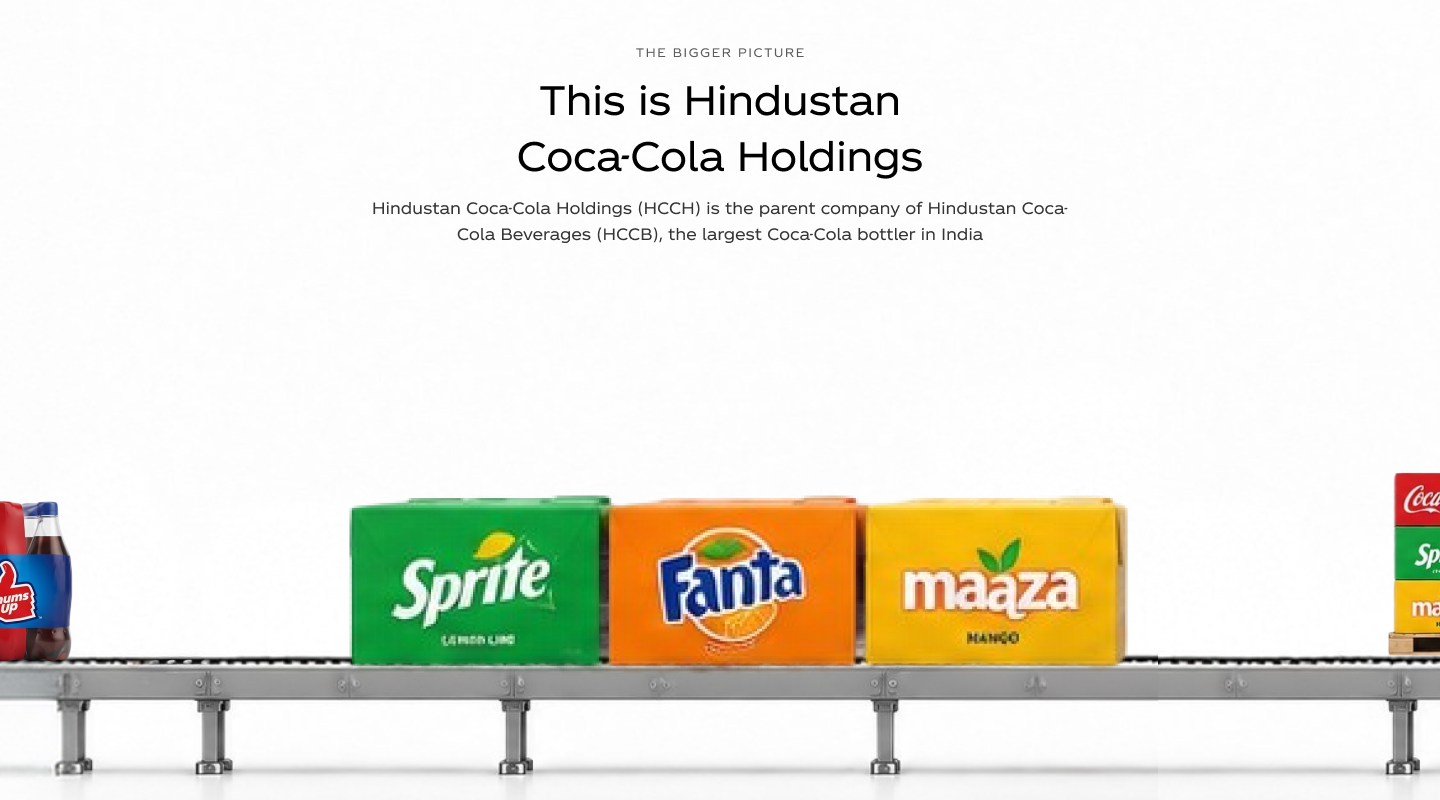
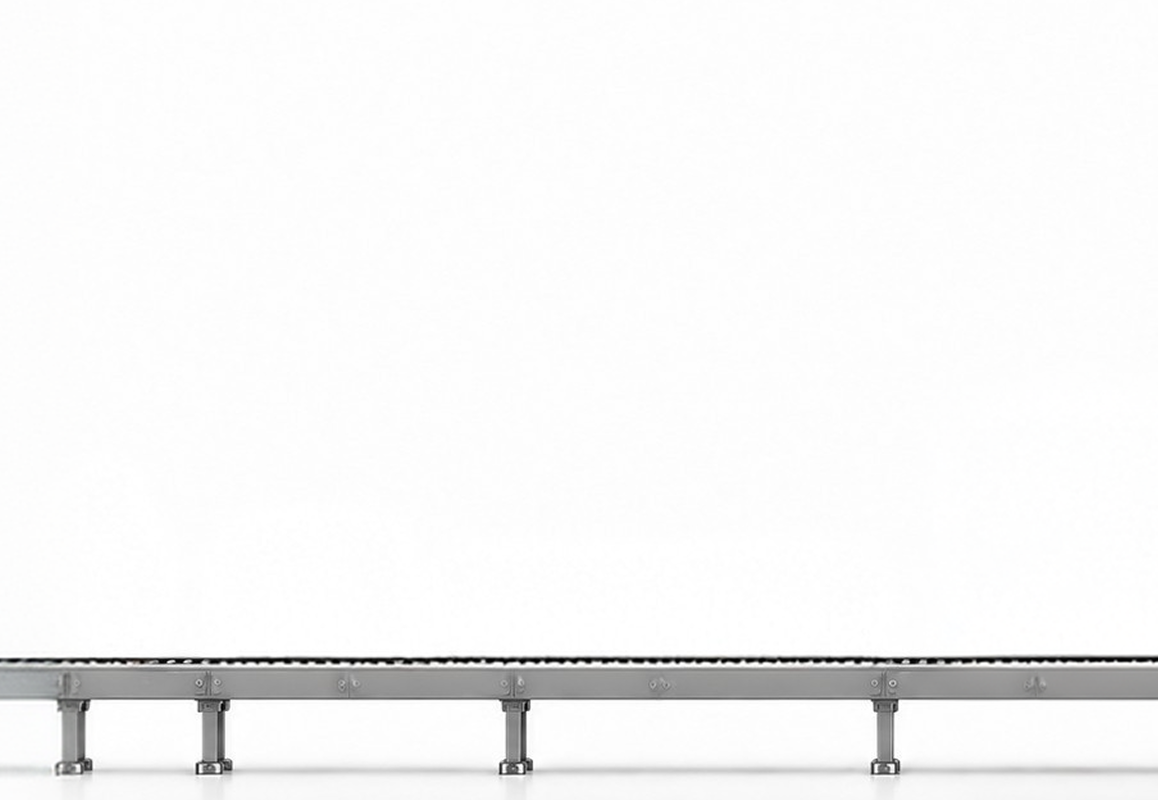
BiggerPicture animation

Changed region(s): [[0.0, 0.5938, 1.0, 0.9688], [0.342, 0.0625, 0.6528, 0.2188], [0.2487, 0.25, 0.7461, 0.3125]]

diff --git a/src/app/components/TheBiggerPicture.jsx b/src/app/components/TheBiggerPicture.jsx
@@ -1,27 +1,171 @@
+'use client';
+
+import { useEffect, useRef } from 'react';
 import Image from 'next/image';
+import gsap from 'gsap';
+import { ScrollTrigger } from 'gsap/ScrollTrigger';
 import SectionHeading from './ui-reuseable/SectionHeading';
+import Button from './ui-reuseable/Button';
+
+if (typeof window !== 'undefined') {
+  gsap.registerPlugin(ScrollTrigger);
+}
+
+const assets = [
+  {
+    id: 'item-1',
+    src: '/object-1.png',
+   
+  },
+  {
+    id: 'item-2',
+    src: '/Object.png',
+  },
+  {
+    id: 'item-3',
+    src: '/object-3.png',
+  },
+];
 
 export default function TheBiggerPicture() {
-  return (
-    <section className="w-full bg-white pt-10 sm:pt-16 lg:pt-24 pb-0 min-h-[100dvh] flex flex-col justify-between overflow-hidden select-none">
-      <div className="w-full max-w-[1320px] mx-auto px-5 sm:px-8 lg:px-6 min-[1368px]:px-[60px]">
-        <SectionHeading
-          eyebrow="The Bigger Picture"
-          title={<>This is Hindustan <br /> Coca-Cola Holdings</>}
-          desc="We are part of the story behind some of India's most loved beverages and the moments they are enjoyed in. Together with our network of people and partners, we help make those moments a little more refreshing"
-        />
-      </div>
+  const triggerRef = useRef(null);
+  const pinRef = useRef(null);
+  const trackRef = useRef(null);
+  const item3Ref = useRef(null);
+  const truckRef = useRef(null);
 
-      <div className="relative w-full mt-auto overflow-hidden flex items-end justify-center">
-        <div className="relative w-full h-[120px] sm:h-[180px] md:h-[240px] lg:h-[320px] xl:h-[380px]">
-          <Image
-            src="/conveyor-belt.png"
-            alt="Hindustan Coca-Cola Production Conveyor Belt"
-            fill
-            sizes="100vw"
-            priority
-            className="object-cover object-bottom"
+  useEffect(() => {
+    if (!triggerRef.current || !pinRef.current) return;
+
+    const ctx = gsap.context(() => {
+      const tl = gsap.timeline({
+        scrollTrigger: {
+          trigger: triggerRef.current,
+          pin: pinRef.current,
+          start: 'top top',
+          end: '+=200%',
+          scrub: 1,
+          anticipatePin: 1,
+          pinSpacing: true,
+        },
+      });
+      tl.to(
+        trackRef.current,
+        {
+          x: '-480px',
+          ease: 'none',
+          duration: 2,
+        },
+        0
+      );
+      tl.fromTo(
+        truckRef.current,
+        { x: '100%' },
+        { x: '0%', ease: 'power1.out', duration: 1.4 },
+        0.3
+      );
+      tl.to(
+        item3Ref.current,
+        {
+          x: 260,
+          scale: 0.85,
+          opacity: 0,
+          duration: 1.1,
+          ease: 'power1.in',
+        },
+        1.3
+      );
+    }, triggerRef);
+
+    return () => {
+      ctx.revert();
+      ScrollTrigger.getAll().forEach((t) => t.kill());
+    };
+  }, []);
+
+  return (
+    <section ref={triggerRef} className="relative w-full bg-white select-none">
+      <div
+        ref={pinRef}
+        className="w-full h-screen flex flex-col justify-between overflow-hidden" >
+        <div className="w-full max-w-[1320px] mx-auto pt-10 sm:pt-14 px-5 sm:px-8 lg:px-6 text-center z-20">
+          <SectionHeading
+            align="center"
+            eyebrow="THE BIGGER PICTURE"
+            title={
+              <>
+                This is Hindustan <br /> Coca-Cola Holdings
+              </>
+            }
+            desc="Hindustan Coca-Cola Holdings (HCCH) is the parent company of Hindustan Coca-Cola Beverages (HCCB), the largest Coca-Cola bottler in India"
           />
+
+          <div className="mt-5 flex justify-center">
+            <Button href="#discover" variant="black">
+              Discover HCCH
+            </Button>
+          </div>
+        </div>
+        <div className="relative w-full h-[280px] sm:h-[340px] lg:h-[400px] flex items-end overflow-hidden">
+          <div className="absolute inset-x-0 bottom-0 h-[80px] sm:h-[100px] lg:h-[115px] z-10 pointer-events-none flex flex-col justify-end">
+            <div className="w-full h-[12px] sm:h-[14px] bg-[#d1d5db] border-y border-[#9ca3af] flex items-center overflow-hidden">
+              <div className="w-full h-[3px] bg-[#9ca3af]/40" />
+            </div>
+            <div className="w-full h-[22px] sm:h-[26px] bg-gradient-to-b from-[#e5e7eb] via-[#d1d5db] to-[#9ca3af] border-b border-[#6b7280] shadow-sm flex items-center justify-around px-8">
+              <div className="w-2 h-2 rounded-full bg-[#9ca3af]" />
+              <div className="w-2 h-2 rounded-full bg-[#9ca3af]" />
+              <div className="w-2 h-2 rounded-full bg-[#9ca3af]" />
+              <div className="w-2 h-2 rounded-full bg-[#9ca3af]" />
+            </div>
+            <div className="w-full h-[46px] sm:h-[60px] lg:h-[75px] flex justify-around px-12 sm:px-24">
+              <div className="w-[18px] sm:w-[22px] h-full bg-[#9ca3af] border-x border-[#6b7280] flex flex-col justify-end items-center">
+                <div className="w-[28px] sm:w-[34px] h-[6px] bg-[#4b5563] rounded-t-sm" />
+              </div>
+              <div className="w-[18px] sm:w-[22px] h-full bg-[#9ca3af] border-x border-[#6b7280] flex flex-col justify-end items-center">
+                <div className="w-[28px] sm:w-[34px] h-[6px] bg-[#4b5563] rounded-t-sm" />
+              </div>
+              <div className="w-[18px] sm:w-[22px] h-full bg-[#9ca3af] border-x border-[#6b7280] flex flex-col justify-end items-center">
+                <div className="w-[28px] sm:w-[34px] h-[6px] bg-[#4b5563] rounded-t-sm" />
+              </div>
+              <div className="w-[18px] sm:w-[22px] h-full bg-[#9ca3af] border-x border-[#6b7280] flex flex-col justify-end items-center">
+                <div className="w-[28px] sm:w-[34px] h-[6px] bg-[#4b5563] rounded-t-sm" />
+              </div>
+            </div>
+          </div>
+
+          <div
+            ref={trackRef}
+            className="absolute bottom-[68px] sm:bottom-[86px] lg:bottom-[101px] left-0 flex items-end gap-16 sm:gap-24 pl-[10vw] z-15 will-change-transform"
+          >
+            {assets.map((item, index) => (
+              <div
+                key={item.id}
+                ref={index === 2 ? item3Ref : null}
+                className="relative w-[130px] sm:w-[170px] lg:w-[220px] h-[110px] sm:h-[150px] lg:h-[190px] shrink-0"
+              >
+                <Image
+                  src={item.src}
+                  alt={item.alt}
+                  fill
+                  className="object-contain object-bottom"
+                />
+              </div>
+            ))}
+          </div>
+
+          <div
+            ref={truckRef}
+            className="absolute right-0 bottom-0 w-[360px] sm:w-[520px] lg:w-[700px] h-[200px] sm:h-[280px] lg:h-[350px] z-25 pointer-events-none will-change-transform"
+          >
+            <Image
+              src="/Truck.png"
+              alt="Coca-Cola Truck"
+              fill
+              className="object-contain object-bottom"
+              priority
+            />
+          </div>
+
         </div>
       </div>
     </section>
